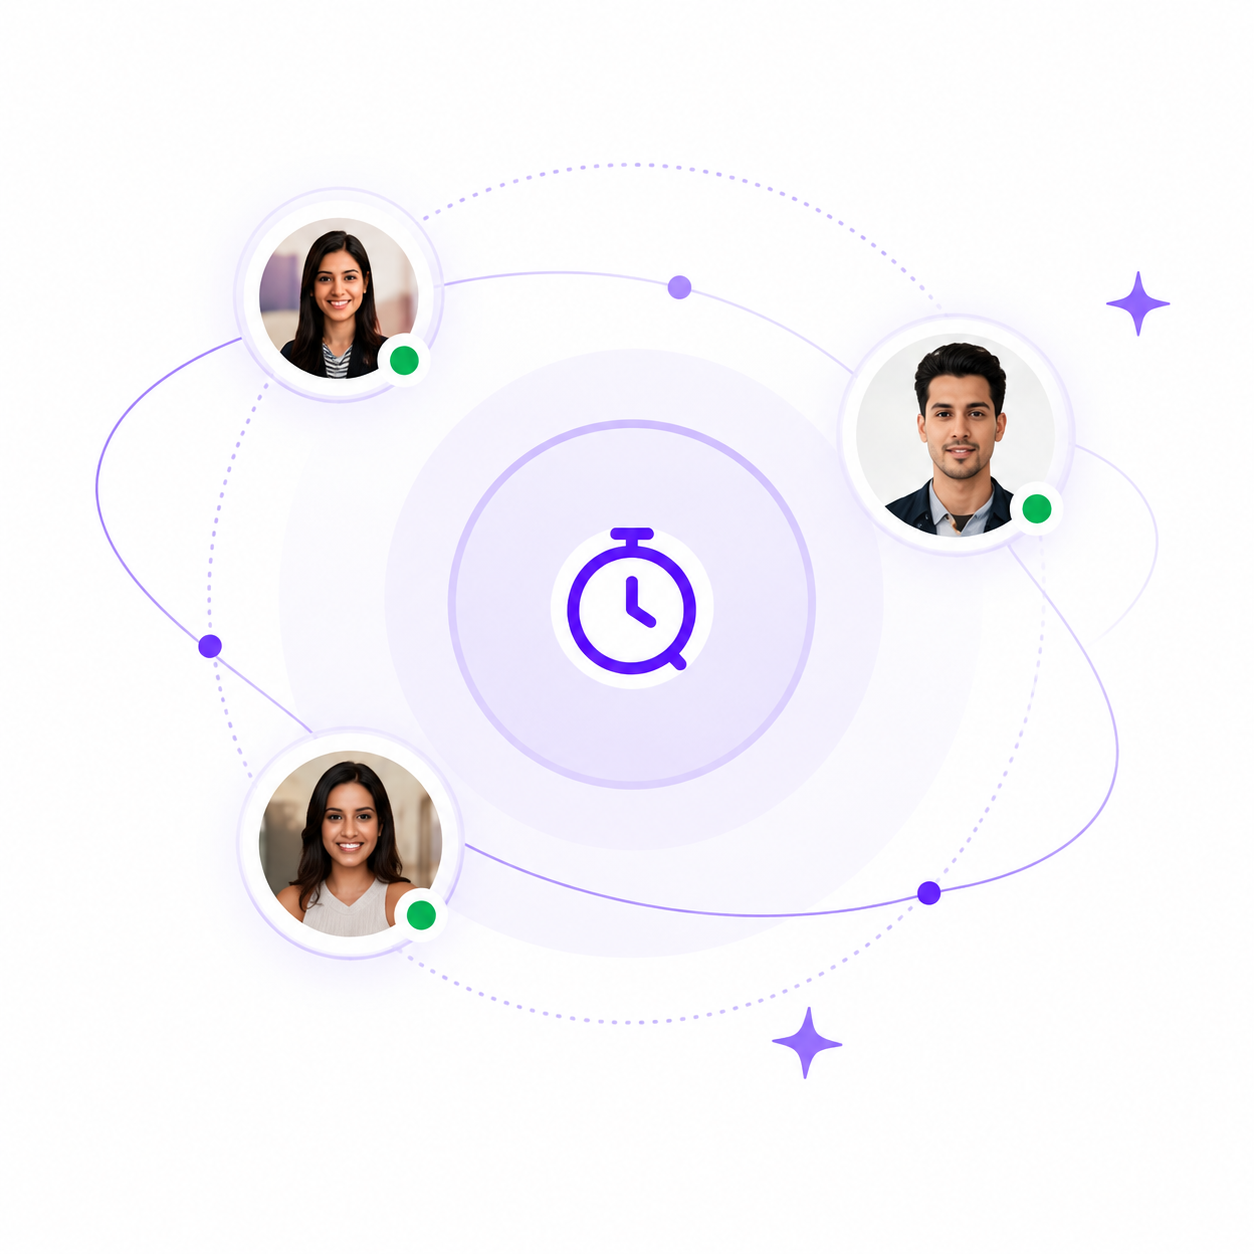
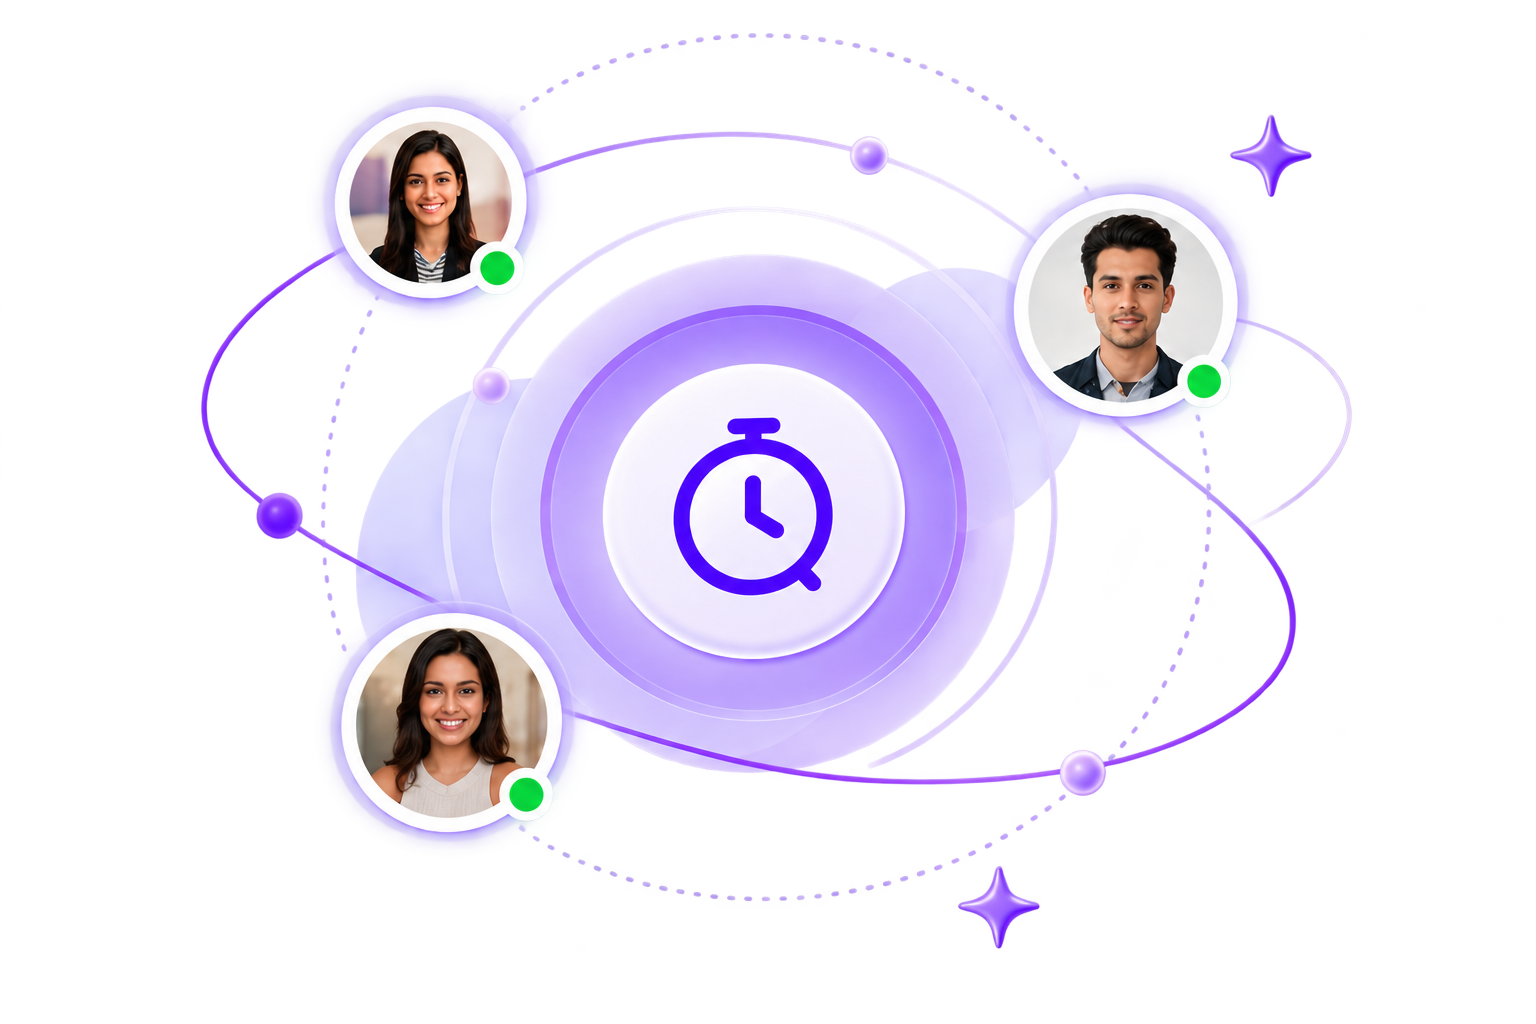
feat: add  features with corresponding UI and Docker configuration

diff --git a/frontend/src/components/landing-page-modern/detailed-features/DetailedFeaturesSection.tsx b/frontend/src/components/landing-page-modern/detailed-features/DetailedFeaturesSection.tsx
@@ -6,6 +6,8 @@ import {
   Music2,
   Clock,
   Bot,
+  Users,
+  Trophy,
 } from 'lucide-react';
 
 const detailedFeatures = [
@@ -18,6 +20,30 @@ const detailedFeatures = [
       'Fully customizable session lengths',
       'Auto-start cycles and smart break management',
       'Every session stored for analytics',
+    ],
+  },
+  {
+    icon: Users,
+    color: 'rose',
+    title: 'Study together in real-time virtual focus rooms.',
+    subtitle: 'Multiplayer Focus Rooms',
+    features: [
+      'Join live public & private study spaces with synchronized Pomodoro timers',
+      'Built-in customizable ambient sound mixer (Lofi, Rain, White Noise, Nature)',
+      'See live participant presence, status updates, and group productivity counters',
+      'Distraction-free environment built to keep your study sessions accountable',
+    ],
+  },
+  {
+    icon: Trophy,
+    color: 'fuchsia',
+    title: 'Level up your productivity with XP and achievements.',
+    subtitle: 'Gamification & Tiers',
+    features: [
+      'Earn Focus XP for every completed timer session and daily streak',
+      'Unlock milestone badges and advance through productivity tiers',
+      'Compete on focus leaderboards and track your progress over time',
+      'Personalize your focus profile with unlocked achievements and stats',
     ],
   },
   {
@@ -79,17 +105,19 @@ const detailedFeatures = [
 ];
 
 const colorMap: Record<string, { bg: string; text: string; badge: string; dot: string }> = {
-  indigo: { bg: 'bg-indigo-500/10', text: 'text-indigo-400', badge: 'bg-indigo-500/20', dot: 'bg-indigo-400' },
-  emerald: { bg: 'bg-emerald-500/10', text: 'text-emerald-400', badge: 'bg-emerald-500/20', dot: 'bg-emerald-400' },
-  violet: { bg: 'bg-violet-500/10', text: 'text-violet-400', badge: 'bg-violet-500/20', dot: 'bg-violet-400' },
-  pink: { bg: 'bg-pink-500/10', text: 'text-pink-400', badge: 'bg-pink-500/20', dot: 'bg-pink-400' },
-  amber: { bg: 'bg-amber-500/10', text: 'text-amber-400', badge: 'bg-amber-500/20', dot: 'bg-amber-400' },
-  cyan: { bg: 'bg-cyan-500/10', text: 'text-cyan-400', badge: 'bg-cyan-500/20', dot: 'bg-cyan-400' },
+  indigo: { bg: 'bg-indigo-500/10', text: 'text-indigo-600', badge: 'bg-indigo-500/20', dot: 'bg-indigo-500' },
+  rose: { bg: 'bg-rose-500/10', text: 'text-rose-600', badge: 'bg-rose-500/20', dot: 'bg-rose-500' },
+  fuchsia: { bg: 'bg-fuchsia-500/10', text: 'text-fuchsia-600', badge: 'bg-fuchsia-500/20', dot: 'bg-fuchsia-500' },
+  emerald: { bg: 'bg-emerald-500/10', text: 'text-emerald-600', badge: 'bg-emerald-500/20', dot: 'bg-emerald-500' },
+  violet: { bg: 'bg-violet-500/10', text: 'text-violet-600', badge: 'bg-violet-500/20', dot: 'bg-violet-500' },
+  pink: { bg: 'bg-pink-500/10', text: 'text-pink-600', badge: 'bg-pink-500/20', dot: 'bg-pink-500' },
+  amber: { bg: 'bg-amber-500/10', text: 'text-amber-600', badge: 'bg-amber-500/20', dot: 'bg-amber-500' },
+  cyan: { bg: 'bg-cyan-500/10', text: 'text-cyan-600', badge: 'bg-cyan-500/20', dot: 'bg-cyan-500' },
 };
 
 export const DetailedFeaturesSection = () => {
   return (
-    <section className="relative w-full bg-transparent py-20 md:py-32 lg:py-40 px-4 md:px-8 lg:px-20">
+    <section className="relative w-full bg-transparent py-20 md:py-32 lg:py-40 px-4 md:px-8 lg:px-20" id="features">
       <div className="mx-auto max-w-6xl">
         {/* Features List */}
         <div className="space-y-16 md:space-y-24">
@@ -136,7 +164,7 @@ export const DetailedFeaturesSection = () => {
                         viewport={{ once: true }}
                       >
                         <div
-                          className={`w-1.5 h-1.5 rounded-full flex-shrink-0 mt-2.5 ${colors.dot}`}
+                          className={`w-1.5 h-1.5 rounded-full shrink-0 mt-2.5 ${colors.dot}`}
                         />
                         <span className="text-slate-600 text-lg leading-relaxed">
                           {feat}
@@ -159,6 +187,20 @@ export const DetailedFeaturesSection = () => {
                       <img
                         src="/deep_work_elements.png"
                         alt="Deep Work Focus Session"
+                        className="w-full h-auto object-contain drop-shadow-2xl"
+                      />
+                    )}
+                    {feature.subtitle === 'Multiplayer Focus Rooms' && (
+                      <img
+                        src="/room-ui.png"
+                        alt="Multiplayer Focus Rooms"
+                        className="w-full h-auto object-contain drop-shadow-2xl"
+                      />
+                    )}
+                    {feature.subtitle === 'Gamification & Tiers' && (
+                      <img
+                        src="/leaderboard-ui.png"
+                        alt="Gamification & Leaderboards"
                         className="w-full h-auto object-contain drop-shadow-2xl"
                       />
                     )}
@@ -204,8 +246,6 @@ export const DetailedFeaturesSection = () => {
           })}
         </div>
       </div>
-
-      {/* Decorative elements removed */}
     </section>
   );
 };

diff --git a/frontend/src/pages/LandingPageModern.tsx b/frontend/src/pages/LandingPageModern.tsx
@@ -5,6 +5,7 @@ import { FinalCTASection } from '../components/landing-page-modern/cta/FinalCTAS
 import { FooterSection } from '../components/landing-page-modern/footer/FooterSection';
 import { Loader } from '../components/ui/Loader';
 import Header from '../components/landing-page-modern/header/Header';
+import { Sparkles, Clock, BarChart2, Users, Trophy } from 'lucide-react';
 
 const LoadingFallback = () => (
   <div className="min-h-screen w-full bg-[#f8f9fc] flex items-center justify-center">
@@ -31,8 +32,6 @@ export function LandingPageModern() {
             {/* Social proof strip */}
             <SocialProofStrip />
 
-
-
             {/* Detailed feature deep-dives */}
             <div aria-label="Detailed features">
               <DetailedFeaturesSection />
@@ -47,22 +46,21 @@ export function LandingPageModern() {
   );
 }
 
-import { Sparkles, Clock, BarChart2, BookOpen } from 'lucide-react';
-
 /** Feature highlights bar between hero and detailed features */
 const SocialProofStrip = () => {
   const highlights = [
+    { icon: Users, label: 'Multiplayer Focus Rooms', color: 'text-rose-600' },
+    { icon: Trophy, label: 'Gamification & Level Badges', color: 'text-amber-600' },
     { icon: Sparkles, label: 'AI Weekly Digest & Insights', color: 'text-indigo-600' },
     { icon: Clock, label: 'Pomodoro & Clock In/Out', color: 'text-cyan-600' },
     { icon: BarChart2, label: 'Focus Analytics & Heatmap', color: 'text-purple-600' },
-    { icon: BookOpen, label: 'Stream-Based Study Plans', color: 'text-emerald-600' },
   ];
 
   return (
     <div className="relative w-full border-y border-slate-200/70 bg-white/70 backdrop-blur-sm py-4 px-6 lg:px-16 xl:px-24">
       <div className="max-w-6xl mx-auto flex flex-wrap items-center justify-around sm:justify-between gap-y-3 gap-x-6">
         {highlights.map((h, i) => (
-          <div key={i} className="flex items-center gap-2 text-sm font-semibold text-slate-700">
+          <div key={i} className="flex items-center gap-2 text-xs sm:text-sm font-semibold text-slate-700">
             <h.icon className={`w-4.5 h-4.5 ${h.color}`} />
             <span>{h.label}</span>
           </div>
